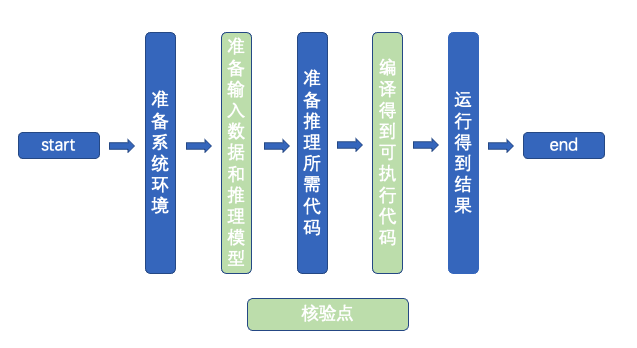
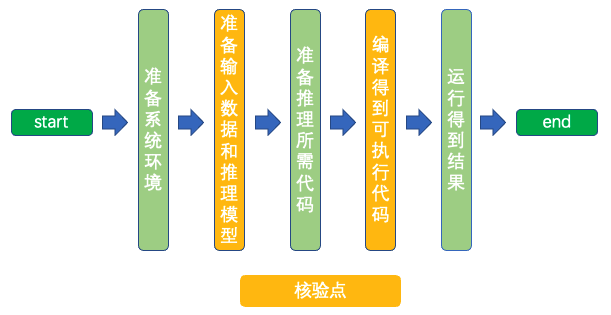
fix:change color

diff --git a/tutorials/tipc/infer_cpp/infer_cpp.md b/tutorials/tipc/infer_cpp/infer_cpp.md
@@ -103,7 +103,8 @@ void Classifier::LoadModel(const std::string &model_path,
 ```
 **预处理**
 
-读取指定图像，对其进行数据变换，转化为符合模型推理所需要的输入格式。
+读取指定图像，对其进行数据变换，转化为符合模型推理所需要的输入格式, 样例中使用的数据预处理如下:
+
 * resize
 * crop
 * normalize
